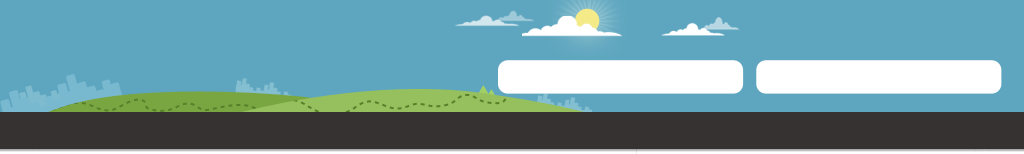
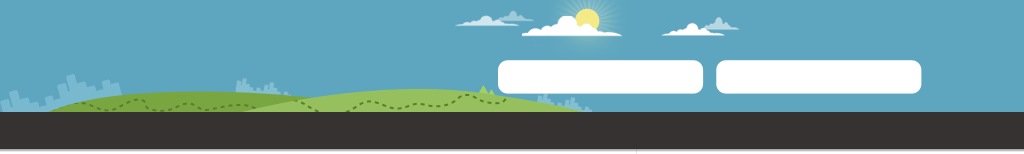
Updated new header image aloging with button

Changed region(s): [[0.875, 0.3896, 1.0, 0.6234], [0.6562, 0.3896, 0.75, 0.6234], [0.0, 0.5714, 0.0625, 0.6753]]

diff --git a/public/themes/default/css/skin.css b/public/themes/default/css/skin.css
@@ -147,7 +147,8 @@ body
 
 .search input
 {
-    width:230px;
+   /* width:230px;*/
+   width: 190px;
     height:20px;
     font-size:14px;
     font-weight:600;
@@ -168,13 +169,13 @@ body
     width:150px;;
     height:25px;
     top:22px;
-    left:138px;
+    left:99px;
     font-size:15px;
 }
 
 .search_01 input
 {
-    width:230px;
+    width:190px;
     height:20px;
     font-size:14px;
     font-weight:600;
